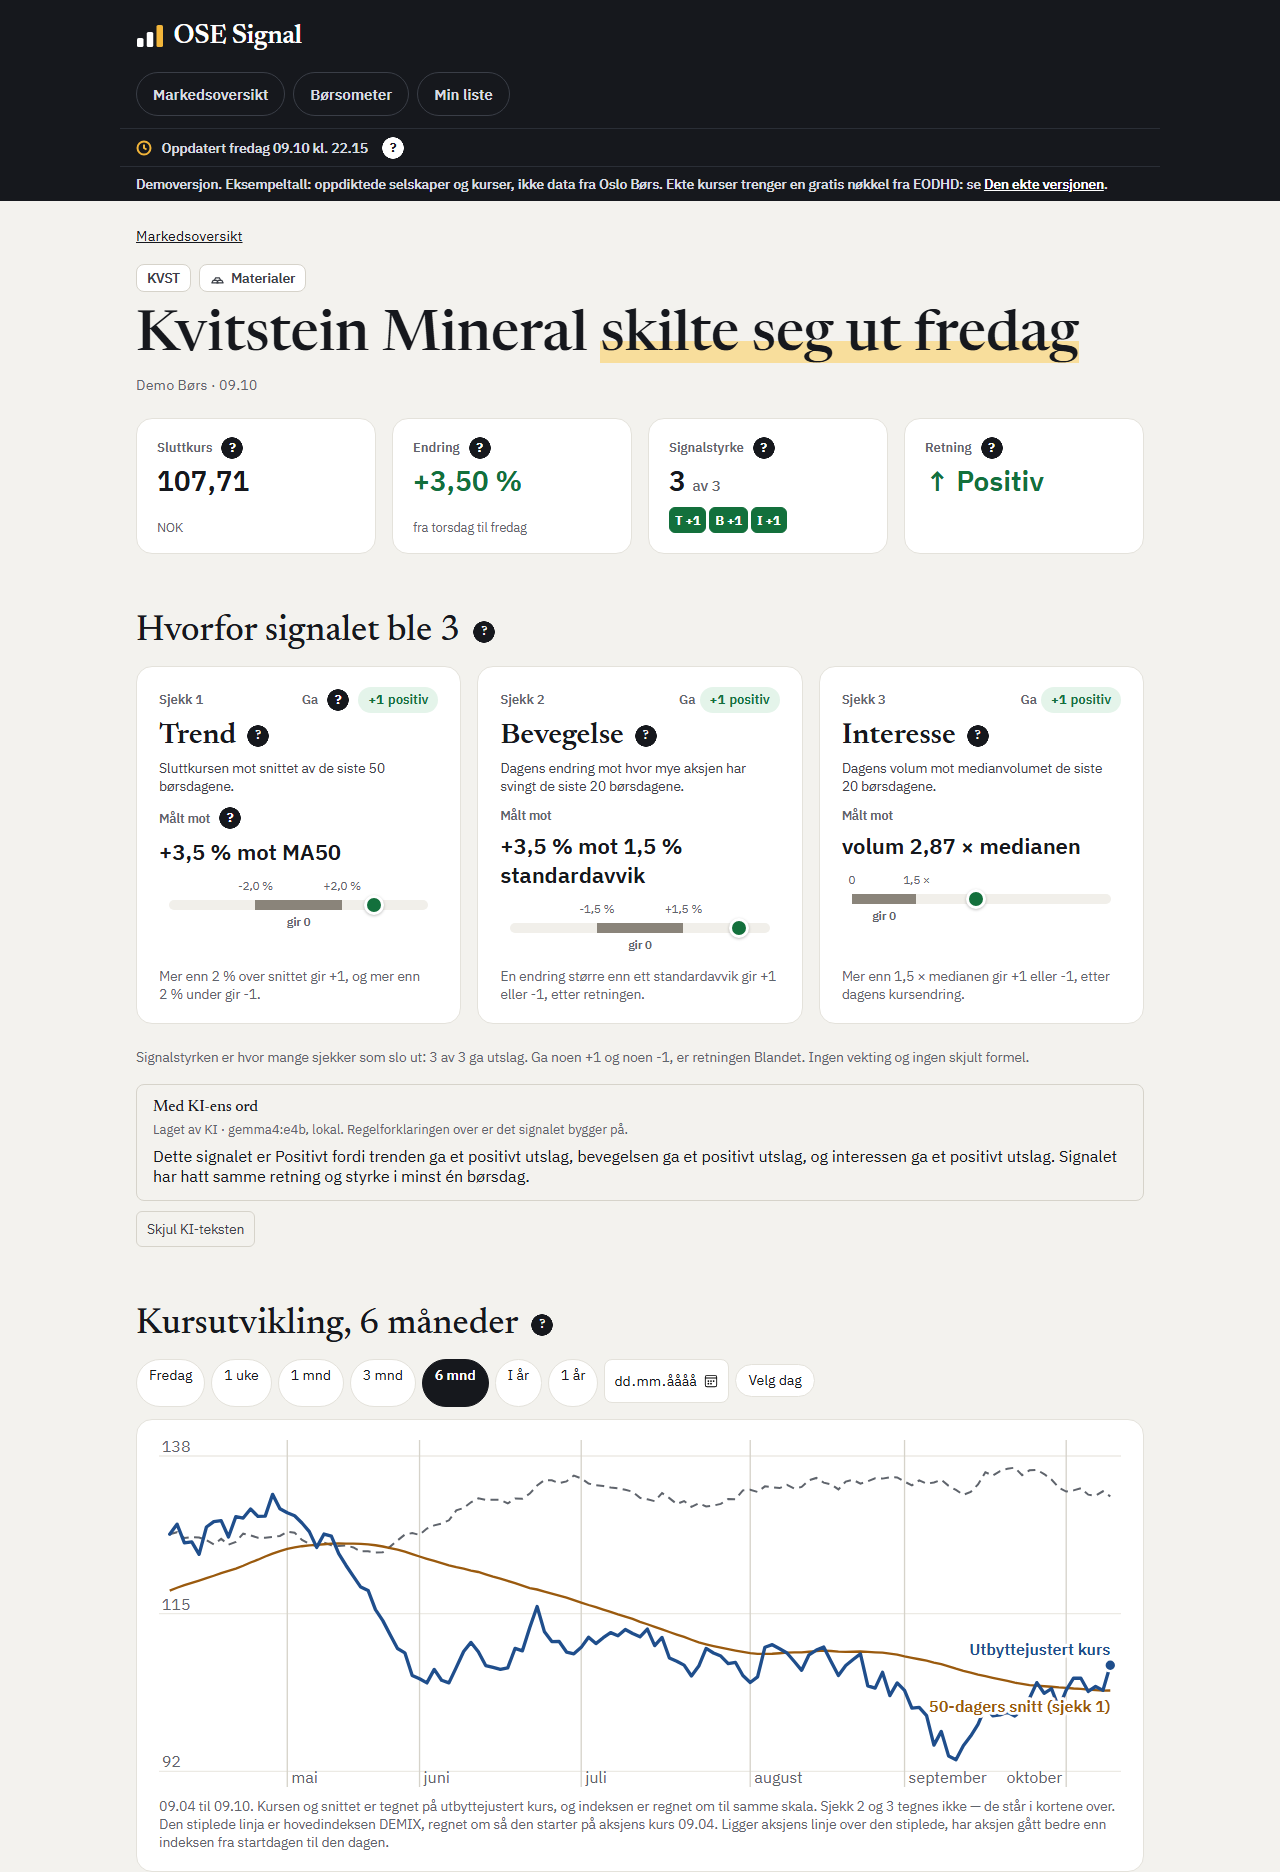
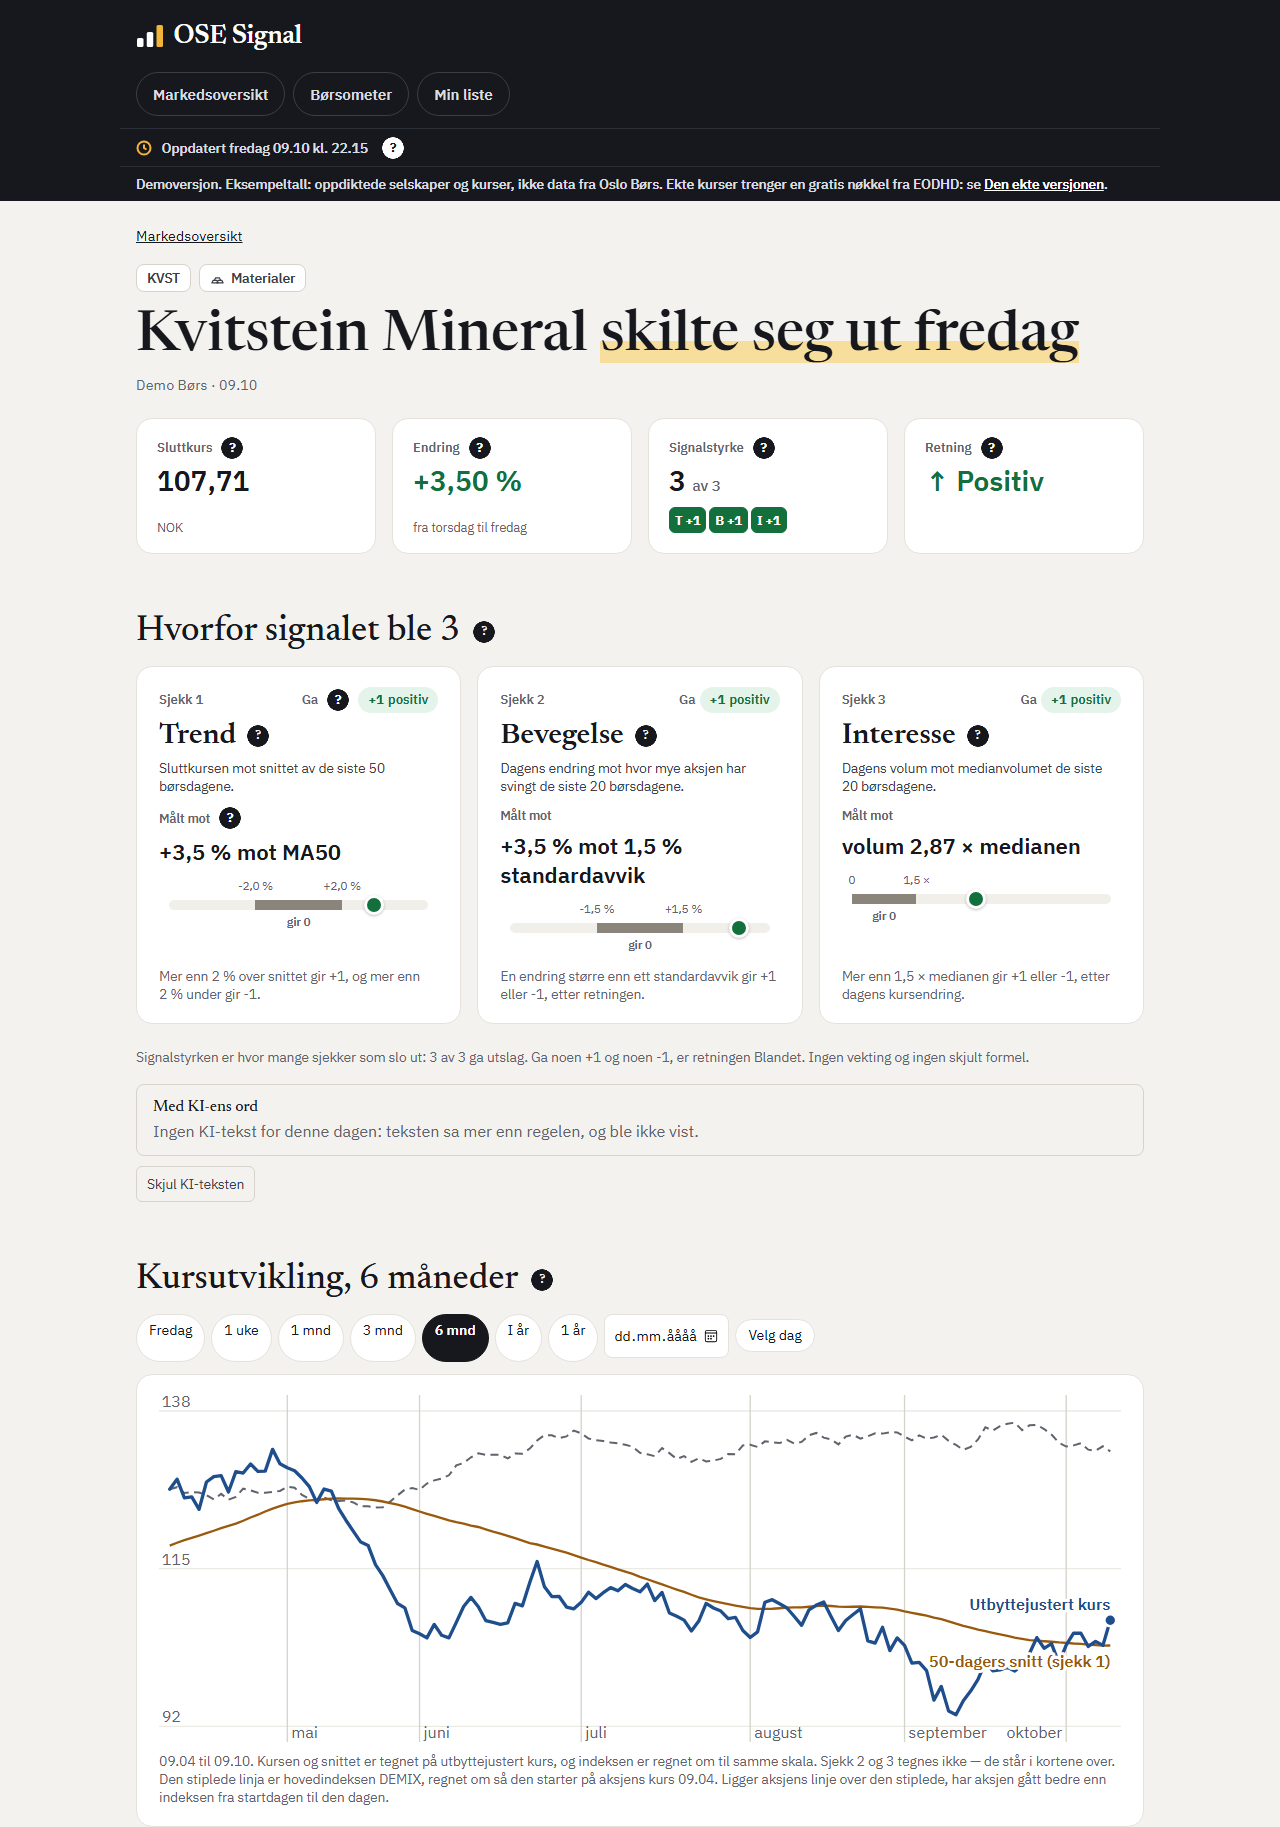
10.2e c): demotekstene og §44 med versjon 3 rettet
KI-tekstene i demoen er laget på nytt: 10 av 13 besto. Teksten for KVST
ble stoppet, så bildet av aksjesiden viser feltet uten tekst, tatt på
nytt med høyden 1827, og bildeteksten i README-en sier det.

§44: 11 av 15 besto og 4 ble stoppet for 23.10, mot 15 med versjon 2 i
§34. Ingen tekst som besto, sier feil om en sjekk eller om dagene.
sha256 for ose.db var den samme før og etter.

diff --git a/tests/test_docker.py b/tests/test_docker.py
@@ -1047,7 +1047,10 @@ FILENE_BAK_AKSJESIDEN = (
 IKKE_BAK_AKSJESIDEN = {"src/lagring_fil.py", "src/eodhd.py", "src/boersometer.py"}
 # Bildet er saa hoeyt at grafen, som staar under KI-teksten, er med til bunnen.
 # Story 8.3: 1872 med knapperaden i stripa. Var 1816.
-HOEYDE_PAA_AKSJESIDEN = 1872
+# Story 10.2e, rettingen etter gruppens svar 24.10 kl. 21:49: teksten for KVST
+# ble stoppet av kontrollen, og feltet sier at den ikke ble vist. Grafen
+# slutter da ved 1827, maalt i Edge uten vindu. Var 1872.
+HOEYDE_PAA_AKSJESIDEN = 1827
 # Story 2.3, kl. 22 fra 20.10: stripa sier kl. 22.15 igjen, ikke 21.15.
 # Story 10.5: lenken til investorsiden står under grafen, ved 1980 px målt i
 # Edge uten vindu, så bildet, som slutter ved bunnen av grafen (1872 px), ble
@@ -1124,7 +1127,10 @@ HOEYDE_PAA_AKSJESIDEN = 1872
 # Story 10.2e: KI-tekstene i demoen laget paa nytt med prompten versjon 3, og
 # valgt_indeks flyttet fra app.py til hovedindeks.py. Bildet ble tatt paa nytt
 # med samme hoeyde og viser den nye teksten for KVST.
[1 lines of base64/hex data omitted]
+# Story 10.2e, rettingen etter gruppens svar 24.10 kl. 21:49: KI-tekstene laget
+# paa nytt med prompten versjon 3 rettet. Teksten for KVST ble stoppet, og
+# bildet ble tatt paa nytt med hoeyden 1827.
[1 lines of base64/hex data omitted]
 SLIK_TAS_AKSJESIDEN = (
     "Aksjesiden er endret, så bildet av den viser noe annet enn demoen. Ta "
     f"{AKSJESIDEBILDET} på nytt med fremgangsmåten i spesifikasjonen 3.3b, mot /aksje/KVST: "

diff --git a/_bmad-output/planning-artifacts/prds/prd-G74-lund-osen-2026-09-20/malinger.md b/_bmad-output/planning-artifacts/prds/prd-G74-lund-osen-2026-09-20/malinger.md
@@ -2,7 +2,7 @@
 title: "Målinger — grunnlaget for PRD-en"
 status: aktiv
 created: 2026-09-20
-updated: 2026-10-24T20:32
+updated: 2026-10-24T22:06
 ---
 
 # Målinger — grunnlaget for PRD-en
@@ -4857,3 +4857,54 @@ kopien og er ikke ført her.
 Versjon 3 besto færre enn versjon 2 på samme dag, så den flettes ikke etter
 beslutningen 16.10 kl. 23:51 (2), og kontrollen stoppet tre, som er grensen i
 instruksjonen kl. 20:00.
+
+## 44. Prøvekjøringen av prompten versjon 3, rettet (2026-10-24)
+
+**Metode.** Som i §43, etter gruppens svar 24.10 kl. 21:49: versjon 3 rettes
+og prøvekjøres på nytt, og flettes bare hvis færre enn tre tekster stoppes og
+ingen tekst sier feil om en sjekk eller om dagene. Prompten ber om navnet på
+sjekken når teksten sier noe om én sjekk, «ingen sjekk» bare ved styrke 0,
+hver sjekk slik fortegnet er, og «minst» om dagene bare med merket, og da
+alltid. Kontrollen sjekker utsagn om én sjekk mot fortegnet, leser «ingen sjekk
+ga utslag på» en sjekk som utsagn om den sjekken, og sjekker «minst» mot merket
+(spesifikasjonen 10.2e, «Rettingen»). Basen ble kopiert med skallet på main til
+`data/db/ki-proeve-v3b.db` kl. 21:52, før grenen (regel 22), med samme sha256
+som `ose.db`. Kopien hadde de 15 radene med versjon 2 fra kveldshentingen
+23.10, alle bestått. De ble slettet i kopien, og bare der, med utløseren
+`ki_logg_slettes_ikke` tatt bort og satt inn igjen. Bare KI-steget ble kjørt
+mot kopien for børsdagen 23.10, med den ekte klokka, fra et skript utenfor
+repoet, og tiden per kall ble tatt med `time.monotonic()`. Ingen kall til
+EODHD: kvoten sto på 20 brukt kl. 21:51, og steget leser bare basen. sha256
+for `data/db/ose.db` var den samme før og etter (`e3184c07…f4a4`).
+
+Hver av de 15 tekstene er også lest mot grunnlaget: hver sjekk, dagene og
+«minst». Tekstene fra §34 (i `ki-proeve-v2.db`) og §43 (i `ki-proeve-v3.db`)
+ble lest på samme måte 24.10, så raden om feil som slapp gjennom gjelder alle
+tre.
+
+| | §34, versjon 2, 16.10 | §43, versjon 3, 23.10 | §44, versjon 3 rettet, 23.10 |
+|---|---:|---:|---:|
+| Kjørt | 23:43–23:44 | 20:31:25–20:31:36 | 22:05:12–22:05:22 |
+| Besto kontrollen | 15 | 12 | 11 |
+| Stoppet av kontrollen | 0 | 3 | 4 |
+| Modellen feilet | 0 | 0 | 0 |
+| Median tid per tekst | 0,77 s | 0,73 s | 0,65 s |
+| Lengste kall | 81,36 s (det første, med innlasting) | 1,01 s (modellen var lastet) | 0,85 s (modellen var lastet) |
+| Tekster med feil som slapp gjennom | 0 | 9 | 0 |
+
+§44: `maskinvare` `gpu` for alle 15 og «100% GPU» i `ollama ps`,
+`gemma4:e4b` med `modell_id` `dc35e8d9c606`, og Ollama 0.35.1. Alle 15 radene
+har `promptversjon` 3. I §43 var de 9 de tre som sa at interessen ga utslag
+der bare trenden ga det, og seks som sa «minst» uten merket. Med kontrollen
+fra 10.2e rettet stoppes alle ni, og alle 15 tekstene fra §34 består.
+
+**Resultat.** Kontrollen stoppet 4 av 15. Tre sa «minst én børsdag» uten at
+grunnlaget har merket, og én sa «det tredje på rad» der dagene er 1, som punkt
+2 stopper. Ingen av de 11 som besto, sier feil om en sjekk eller om dagene,
+og ingen bruker «minst» eller «ingen sjekk» om én sjekk. Ingen tekst nevner
+hovedindeksen, bransjen eller antallet aksjer, og ingen gir råd eller gjetter
+på en årsak. Tekstene står bare i kopien og er ikke ført her.
+
+Fire stoppet er over grensen i gruppens svar kl. 21:49 (færre enn tre), så
+versjon 3 flettes ikke. Den består også færre enn versjon 2 på samme dag (15),
+etter beslutningen 16.10 kl. 23:51 (2).

diff --git a/_bmad-output/implementation-artifacts/spec-10-2e-prompten-versjon-3.md b/_bmad-output/implementation-artifacts/spec-10-2e-prompten-versjon-3.md
@@ -58,6 +58,11 @@ Versjon 3 rettes på grenen og prøvekjøres på nytt, og flettes bare hvis fær
 - Testene fra 10.2d med de 13 demotekstene fra versjon 2 (`tests/demo_ki_tekster_versjon_2.json`) er kjørt mot den nye kontrollen: ingen ble stoppet. Én form i `test_formene_om_en_sjekk_stoppes_ikke`, «… og bevegelsen ga et positivt utslag», stoppes nå, fordi bevegelsen er 0 i grunnlaget. Den står med trenden i stedet, som er 1.
 - Mot tekstene fra §43 stopper den nye kontrollen 10 av 15: MOWI, ORK og SALM på interessen, DNB, FRO, VAR, TEL, GJF og DNO på «minst» uten merket, og MPCC på «Ingen sjekk ga et positivt utslag» (styrken). EQNR og AKRBP består nå.
 
+**c) Demoen og prøvekjøringen:**
+- KI-tekstene i demoen er laget på nytt (`uv run python src/demo_ki.py`, 22:01:46–22:02:09): 10 av 13 besto. KVST ble stoppet på «det tredje på rad» (punkt 2, dagene er 1), og LKSV og TROY på «minst» uten merket. De 10 som besto, er lest mot grunnlaget, og ingen sier feil om en sjekk eller om dagene. Ingen ny runde (FR-604).
+- Fordi teksten for KVST ble stoppet, viser bildet av aksjesiden nå feltet for KI-teksten med «Ingen KI-tekst for denne dagen». Grafen slutter ved 1827 px, målt i Edge uten vindu, og bildet ble tatt på nytt med den høyden (`HOEYDE_PAA_AKSJESIDEN`, var 1872). Bildeteksten i README-en sier at teksten ble stoppet (regel 19).
+- Prøvekjøringen står i §44 i `malinger.md`, mot kopien `data/db/ki-proeve-v3b.db`, laget med skallet på main kl. 21:52 før grenen. Tekstene står bare i kopien.
+
 ## Boundaries & Constraints
 
 - Ingen kall til EODHD utover kvotesjekken i regel 15. `src/fetch_prices.py` kjøres ikke, og `data/db/ose.db` røres ikke (regel 22).

diff --git a/README.md b/README.md
@@ -12,8 +12,8 @@ OSE Signal viser 15 aksjer på Oslo Børs som omsettes mye, samlet i én oversik
 ![Oversikten i demoen, med oppdiktede selskaper og kurser («Eksempeltall»), ikke data fra Oslo Børs](docs/appen/oversikten-demo.png)
 *Oversikten i demoen, med oppdiktede selskaper og kurser («Eksempeltall»).*
 
-![Aksjesiden for Kvitstein Mineral (KVST) i demoen, med kursgrafen og KI-teksten, med oppdiktede tall («Eksempeltall»), ikke data fra Oslo Børs](docs/appen/aksjesiden-kvst-demo.png)
-*Aksjesiden for KVST i demoen, med grafen og KI-teksten, med oppdiktede tall («Eksempeltall»).*
+![Aksjesiden for Kvitstein Mineral (KVST) i demoen, med kursgrafen og feltet for KI-teksten, der teksten ble stoppet av kontrollen, med oppdiktede tall («Eksempeltall»), ikke data fra Oslo Børs](docs/appen/aksjesiden-kvst-demo.png)
+*Aksjesiden for KVST i demoen, med grafen og feltet for KI-teksten, der teksten ble stoppet av kontrollen og ikke vises, med oppdiktede tall («Eksempeltall»).*
 
 </details>
 
